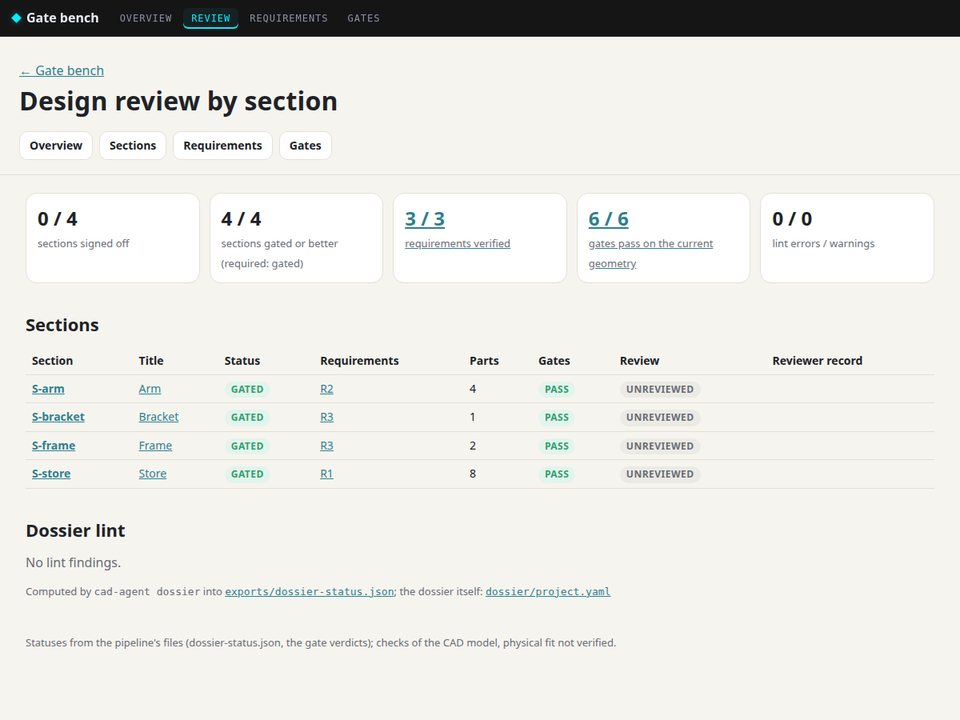
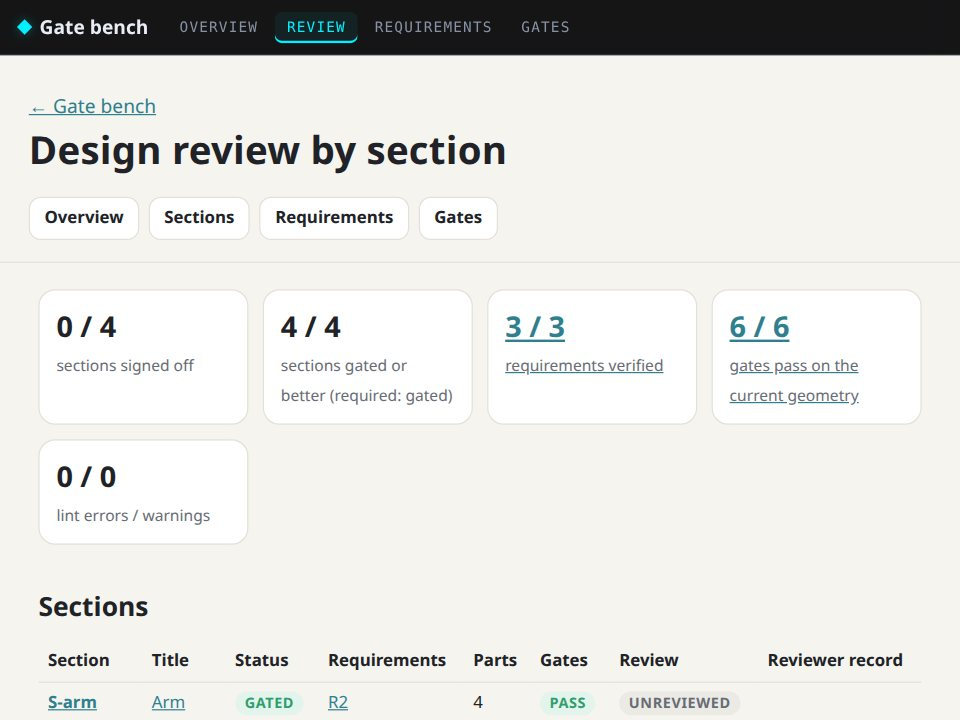
Tool covers: frame the connectivity graph on its hub; shoot the sites in a smaller window (#185)
At card size the whole connectivity graph (tall, 556 x 682) was a thin grey strip, and the 1200 px screenshots
had 4 px text. The gates cover is now the same drawing framed 4:3 on its hub (the static frame's parts around the
hopper, on white), still compared byte for byte; the site and dossier shots are taken in an 800 x 600 window at
1.2x, the site page scrolled to its design cards.

diff --git a/tools/tool_figures.py b/tools/tool_figures.py
@@ -9,22 +9,26 @@
 Every figure is a tool's real output on a project in this repo, made in a scratch copy:
 
 * ``gates-connectivity.svg`` (cad-agent gates): the connectivity gate's graph of the gate bench
-  (tests/fixtures/gate_bench), as ``cad-agent site`` draws it from ``exports/gates/connectivity.dot``. It is built from
-  the bench's committed gate output (``site_snapshot/``, refreshed by ``site_snapshot.py``), with the built-in layout
-  (Graphviz is hidden from the run, so every machine draws the same SVG), and ``--check`` compares it byte for byte.
+  (tests/fixtures/gate_bench), as ``cad-agent site`` draws it from ``exports/gates/connectivity.dot``, framed 4:3 on
+  its hub (the static frame's parts around the hopper; the whole graph is tall and would be a thin strip on a card).
+  It is built from the bench's committed gate output (``site_snapshot/``, refreshed by ``site_snapshot.py``) with
+  the built-in layout (Graphviz is hidden from the run, so every machine draws the same SVG), and ``--check``
+  compares it byte for byte.
 * ``review-packet-store.jpg`` (cad-agent review-packet) and ``review-section-arm.jpg`` (cad-agent review-section,
   whose reviewer bundle carries the packet): renders of the gate bench's Store and Arm sections, after
   ``cad-agent gates --build``. VTK's pixels differ between machines and versions, so these are not compared; rerun
   ``--renders`` after a change to the bench or the renderer.
 * ``site-designs.jpg`` (cad-agent site) and ``dossier-review.jpg`` (cad-agent dossier): ``cad-agent site`` for
   examples/explore-two-wheel (its design cards, after ``cad-agent compare``) and the review page it builds for the
-  gate bench from ``cad-agent dossier``'s statuses, photographed by tools/page-shot.mjs at 1200 x 900.
+  gate bench from ``cad-agent dossier``'s statuses, photographed by tools/page-shot.mjs in an 800 x 600 window (the
+  site page scrolled to its designs).
 
 The tools run as ``python -m cadagent.cli``, the same entry point as the ``cad-agent`` command.
 """
 from __future__ import annotations
 
 import os
+import re
 import shutil
 import subprocess
 import sys
@@ -62,11 +66,21 @@ def bench_copy(tmp: Path, snapshot: bool) -> Path:
     return dst / "project"
 
 
+HUB = (14, 176, 512, 384)          # the gates cover's frame in the graph's own units: x, y, width, height (4:3)
+
+
 def connectivity() -> str:
     with tempfile.TemporaryDirectory(prefix="tool-figures-") as tmp:
         project = bench_copy(Path(tmp), snapshot=True)
         cli(project, "site", "--project", str(project), no_graphviz=True)
-        return (project / "site" / "review" / "connectivity.svg").read_text(encoding="utf-8")
+        svg = (project / "site" / "review" / "connectivity.svg").read_text(encoding="utf-8")
+    # Frame the hub: the same drawing with a 4:3 viewBox on it (and a white ground, as on the review page).
+    head = re.match(r'<svg [^>]*>', svg)
+    if not head or 'viewBox="0 0 ' not in head.group(0):
+        raise SystemExit("cad-agent site's connectivity.svg has no viewBox to frame: update tools/tool_figures.py")
+    x, y, w, h = HUB
+    root = re.sub(r'viewBox="[^"]*" width="[^"]*" height="[^"]*"', f'viewBox="{x} {y} {w} {h}" width="{w}" height="{h}"', head.group(0))
+    return root + f'<rect x="{x}" y="{y}" width="{w}" height="{h}" fill="#fff"/>' + svg[head.end():]
 
 
 def jpeg(src: Path, dst: Path, width: int = 960) -> None:
@@ -88,9 +102,10 @@ def renders() -> None:
 
 
 def shots() -> None:
-    def shot(page: Path, dst: Path) -> None:
+    def shot(page: Path, dst: Path, selector: str = "") -> None:
         png = dst.with_suffix(".png")
-        subprocess.run(["node", str(ROOT / "tools" / "page-shot.mjs"), str(page), str(png), "1200", "900"], check=True, cwd=ROOT)
+        subprocess.run(["node", str(ROOT / "tools" / "page-shot.mjs"), str(page), str(png), "800", "600", selector],
+                       check=True, cwd=ROOT)
         jpeg(png, dst)
         png.unlink()
     with tempfile.TemporaryDirectory(prefix="tool-figures-") as tmp:
@@ -98,7 +113,7 @@ def shots() -> None:
         shutil.copytree(EXPLORE, ex, ignore=SKIP)
         cli(ex, "compare", ok=(0, 1))                     # exit 1: a design fails, which the page shows
         cli(ex, "site")
-        shot(ex / "site" / "index.html", OUT / "site-designs.jpg")
+        shot(ex / "site" / "index.html", OUT / "site-designs.jpg", 'h2:has-text("Designs")')
         project = bench_copy(Path(tmp), snapshot=True)
         cli(project, "site", "--project", str(project), no_graphviz=True)
         shot(project / "site" / "review" / "index.html", OUT / "dossier-review.jpg")
